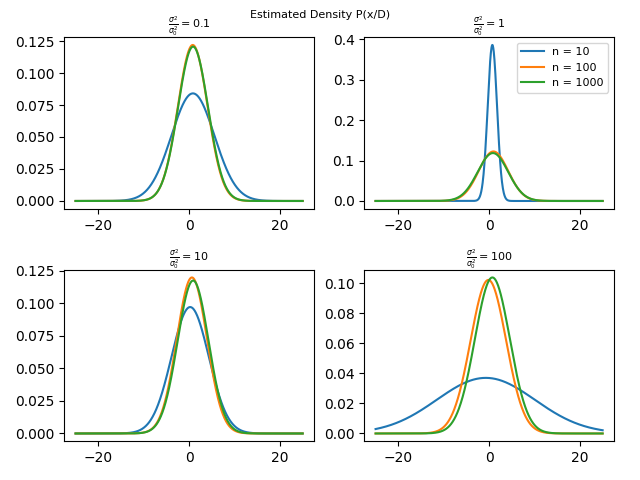
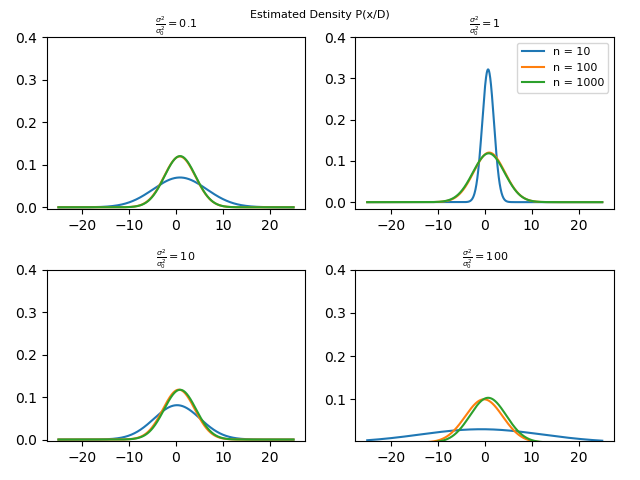
added comments to code; modified plot to have same scale on y-axis

diff --git a/pa4.py b/pa4.py
@@ -2,8 +2,10 @@ import numpy as np
 import matplotlib.pyplot as plt
 import scipy.stats as stats
 
+# seeding
 np.random.seed(42)
 
+# function to evaluate normal function
 def eval1DGaussian(X, mu, sigma):
     power = (np.sum((X-mu)*(X-mu)) * -1) / (2 * sigma * sigma)
     factor = 1/(np.sqrt(2 * np.pi) * sigma)
@@ -14,10 +16,17 @@ def eval1DGaussian(X, mu, sigma):
 data = np.loadtxt("../Datasets_PRML_A1/Dataset_5_Team_39.csv", delimiter=',', dtype=None)
 mu0 = -1
 
+# fixing the x-axis limits for the plots
 x_plot = np.linspace(-25, 25, 1000)
+
+# range of values taken by (sigma^2/sigma_0^2)
 factors = [0.1, 1, 10, 100]
+
+# range of dataset sizes
 dataset_sizes = [10, 100, 1000]
+
 fig = 221
+
 for factor in factors:
     mu_n = []
     sigma_estimates = []
@@ -32,6 +41,8 @@ for factor in factors:
         X = data[0:n]
         Sn = sum(X)
         Sn2 = sum(X*X)
+
+        # posterior mean of mu
         mu = (Sn + mu0*factor) / (n + factor)
         mu_n.append(mu)
 
@@ -39,13 +50,14 @@ for factor in factors:
         sigma = (Sn2 - 2*Sn*mu + mu*mu) / n
         sigma_estimates.append(sigma)
 
+    # plotting the posterior density
     for i in range(3):
         labelname = "n = " + str(dataset_sizes[i])
         plt.plot(x_plot, stats.norm.pdf(x_plot, mu_n[i], sigma_estimates[i]), label = labelname)
+        plt.ylim(top=0.4)
         if fig == 223 :
             plt.legend(fontsize=8, loc='upper right')
-# plt.legend()
-# plt.figlegend(labels=['n=10','n=100','n=1000'], loc='center center')
+
 plt.suptitle("Estimated Density P(x/D)",fontsize=8)
 plt.savefig("results/q4.png")
 plt.show()
